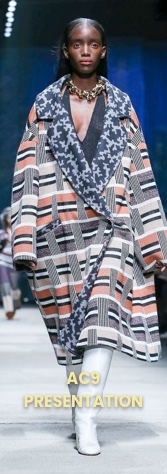
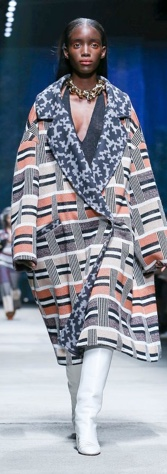
Lookbooks Images
Updated images without text over them

Changed region(s): [[0.1198, 0.7679, 0.8683, 0.8861]]

diff --git a/dev/scss/sections/_lookbooks.scss b/dev/scss/sections/_lookbooks.scss
@@ -18,7 +18,8 @@
   }
    
   .lookbook-image {
-    float: left;
+    object-position: center;
+    
   }
   
   h1 {

diff --git a/deploy/css/styles.css b/deploy/css/styles.css
@@ -174,7 +174,7 @@ h1 {
 }
 
 .lookbook-image {
-  float: left;
+  object-position: center;
 }
 
 h1 {
